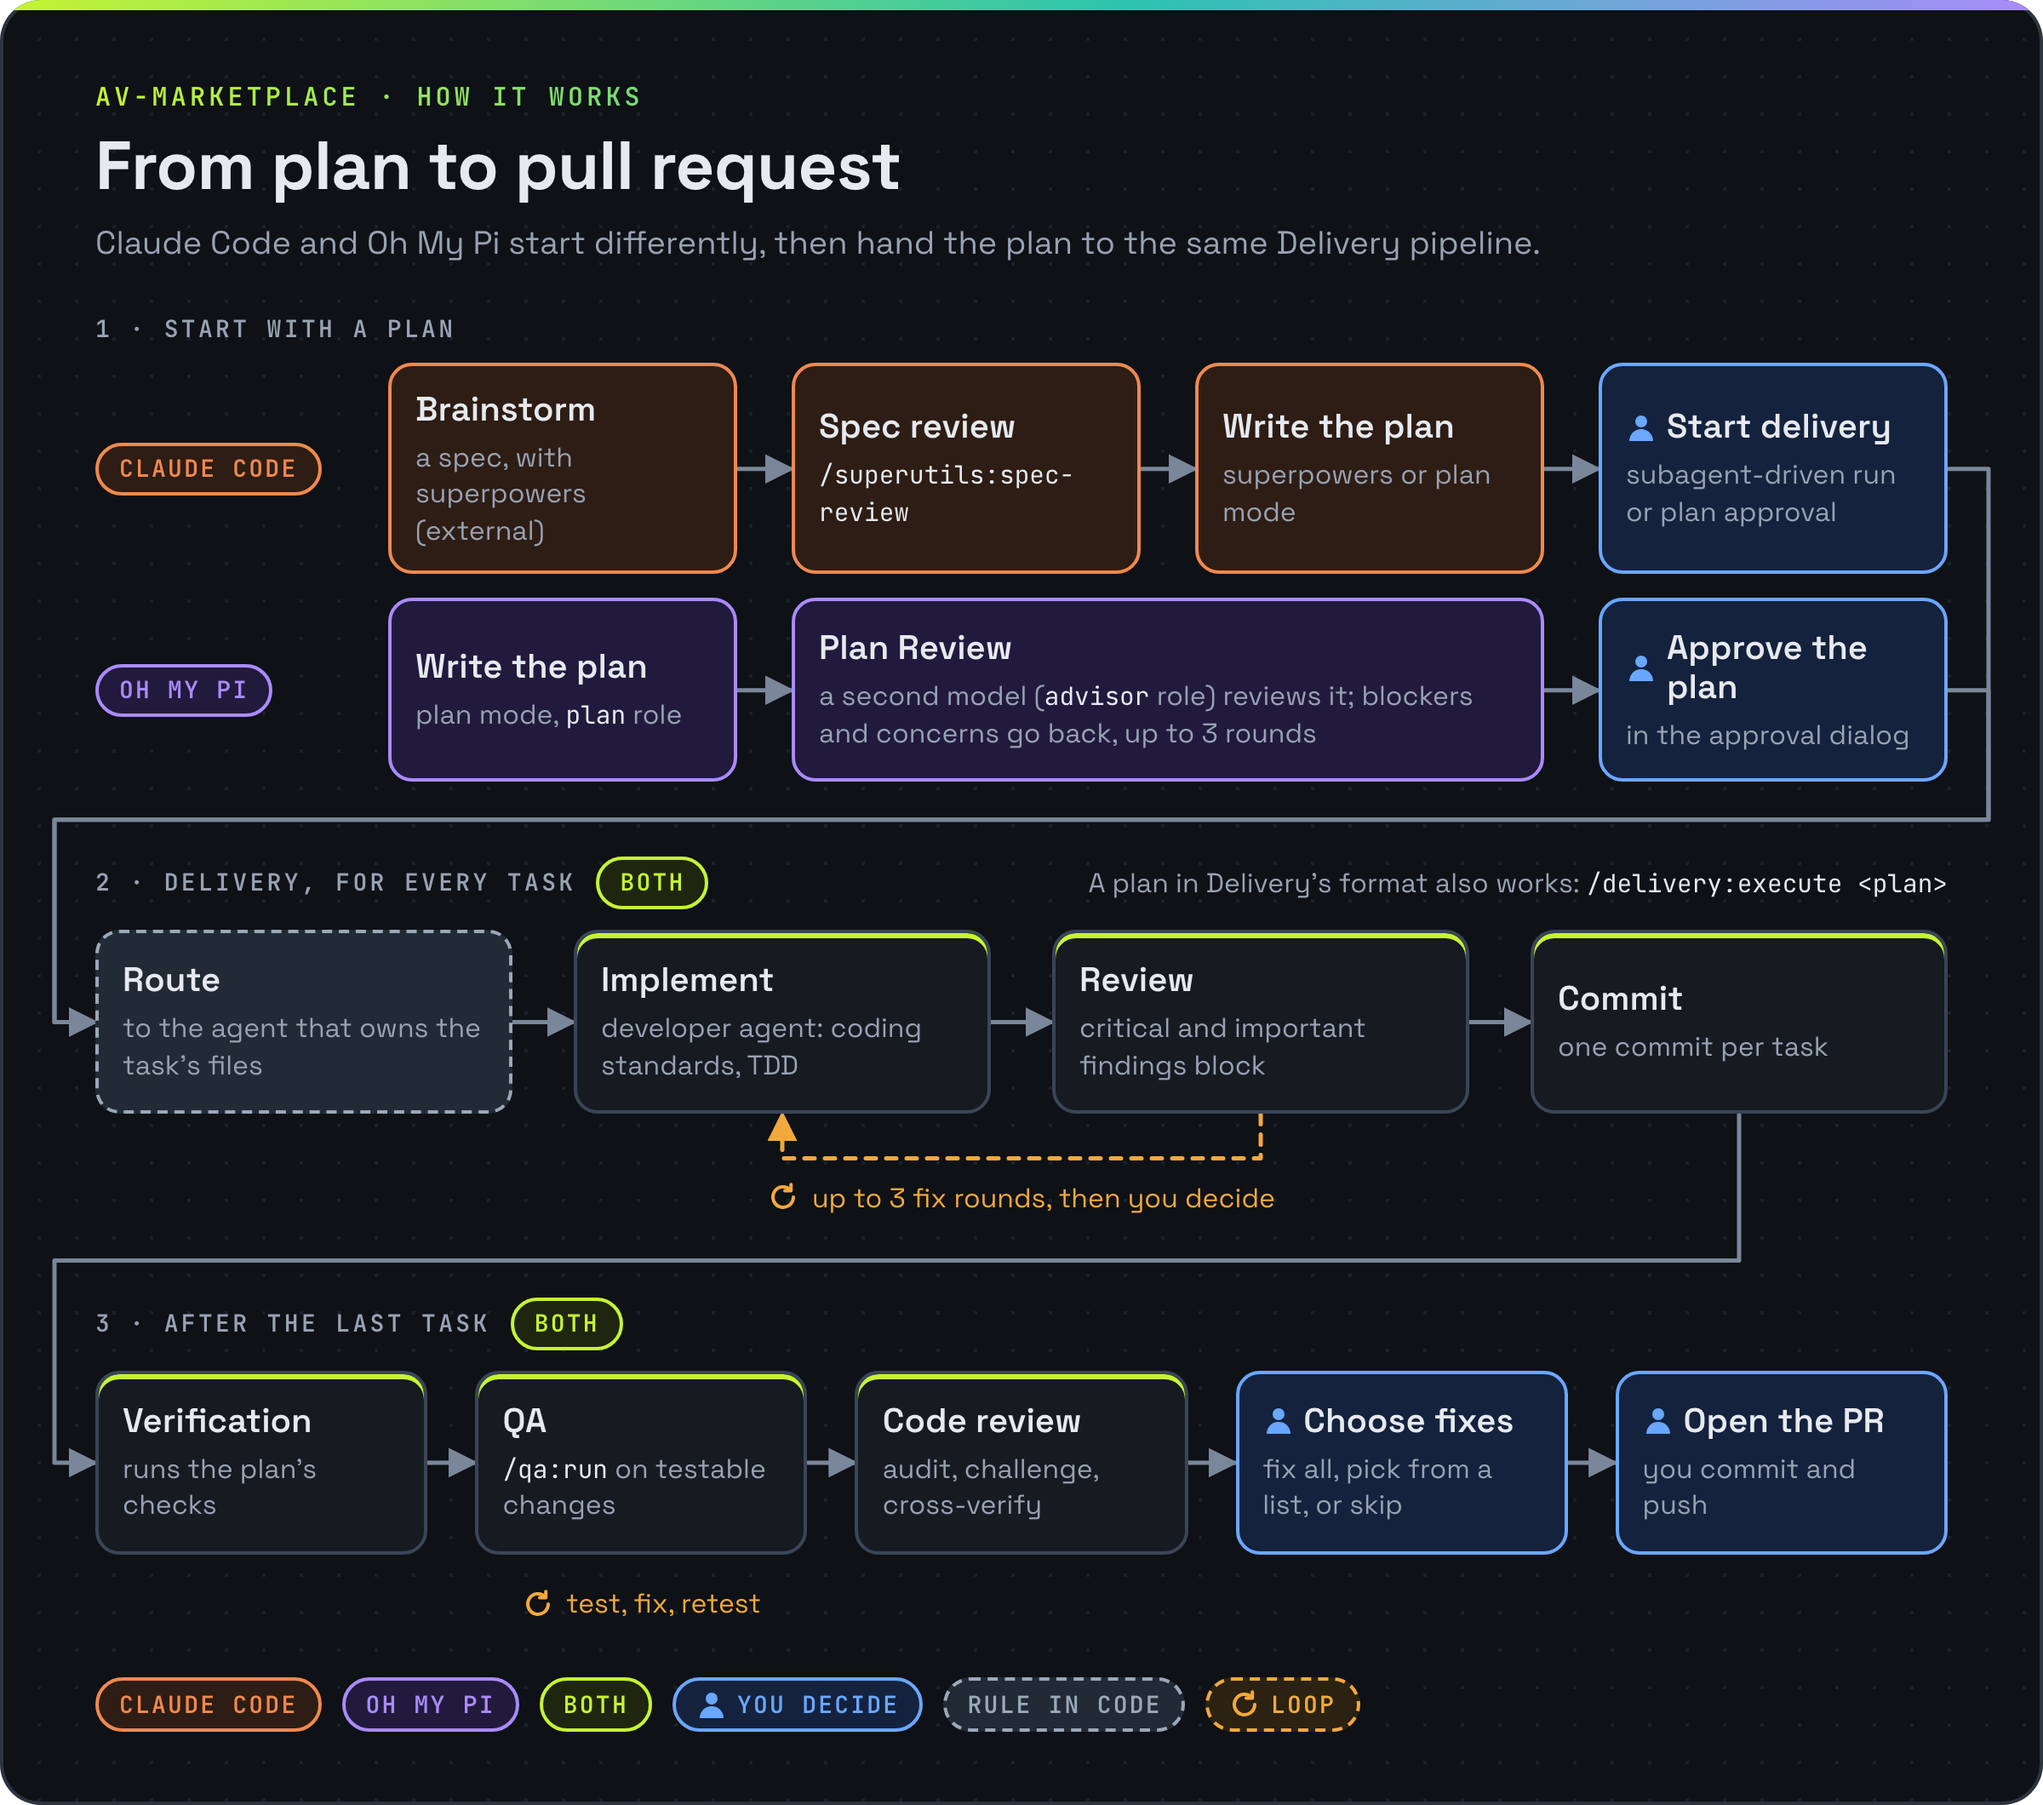
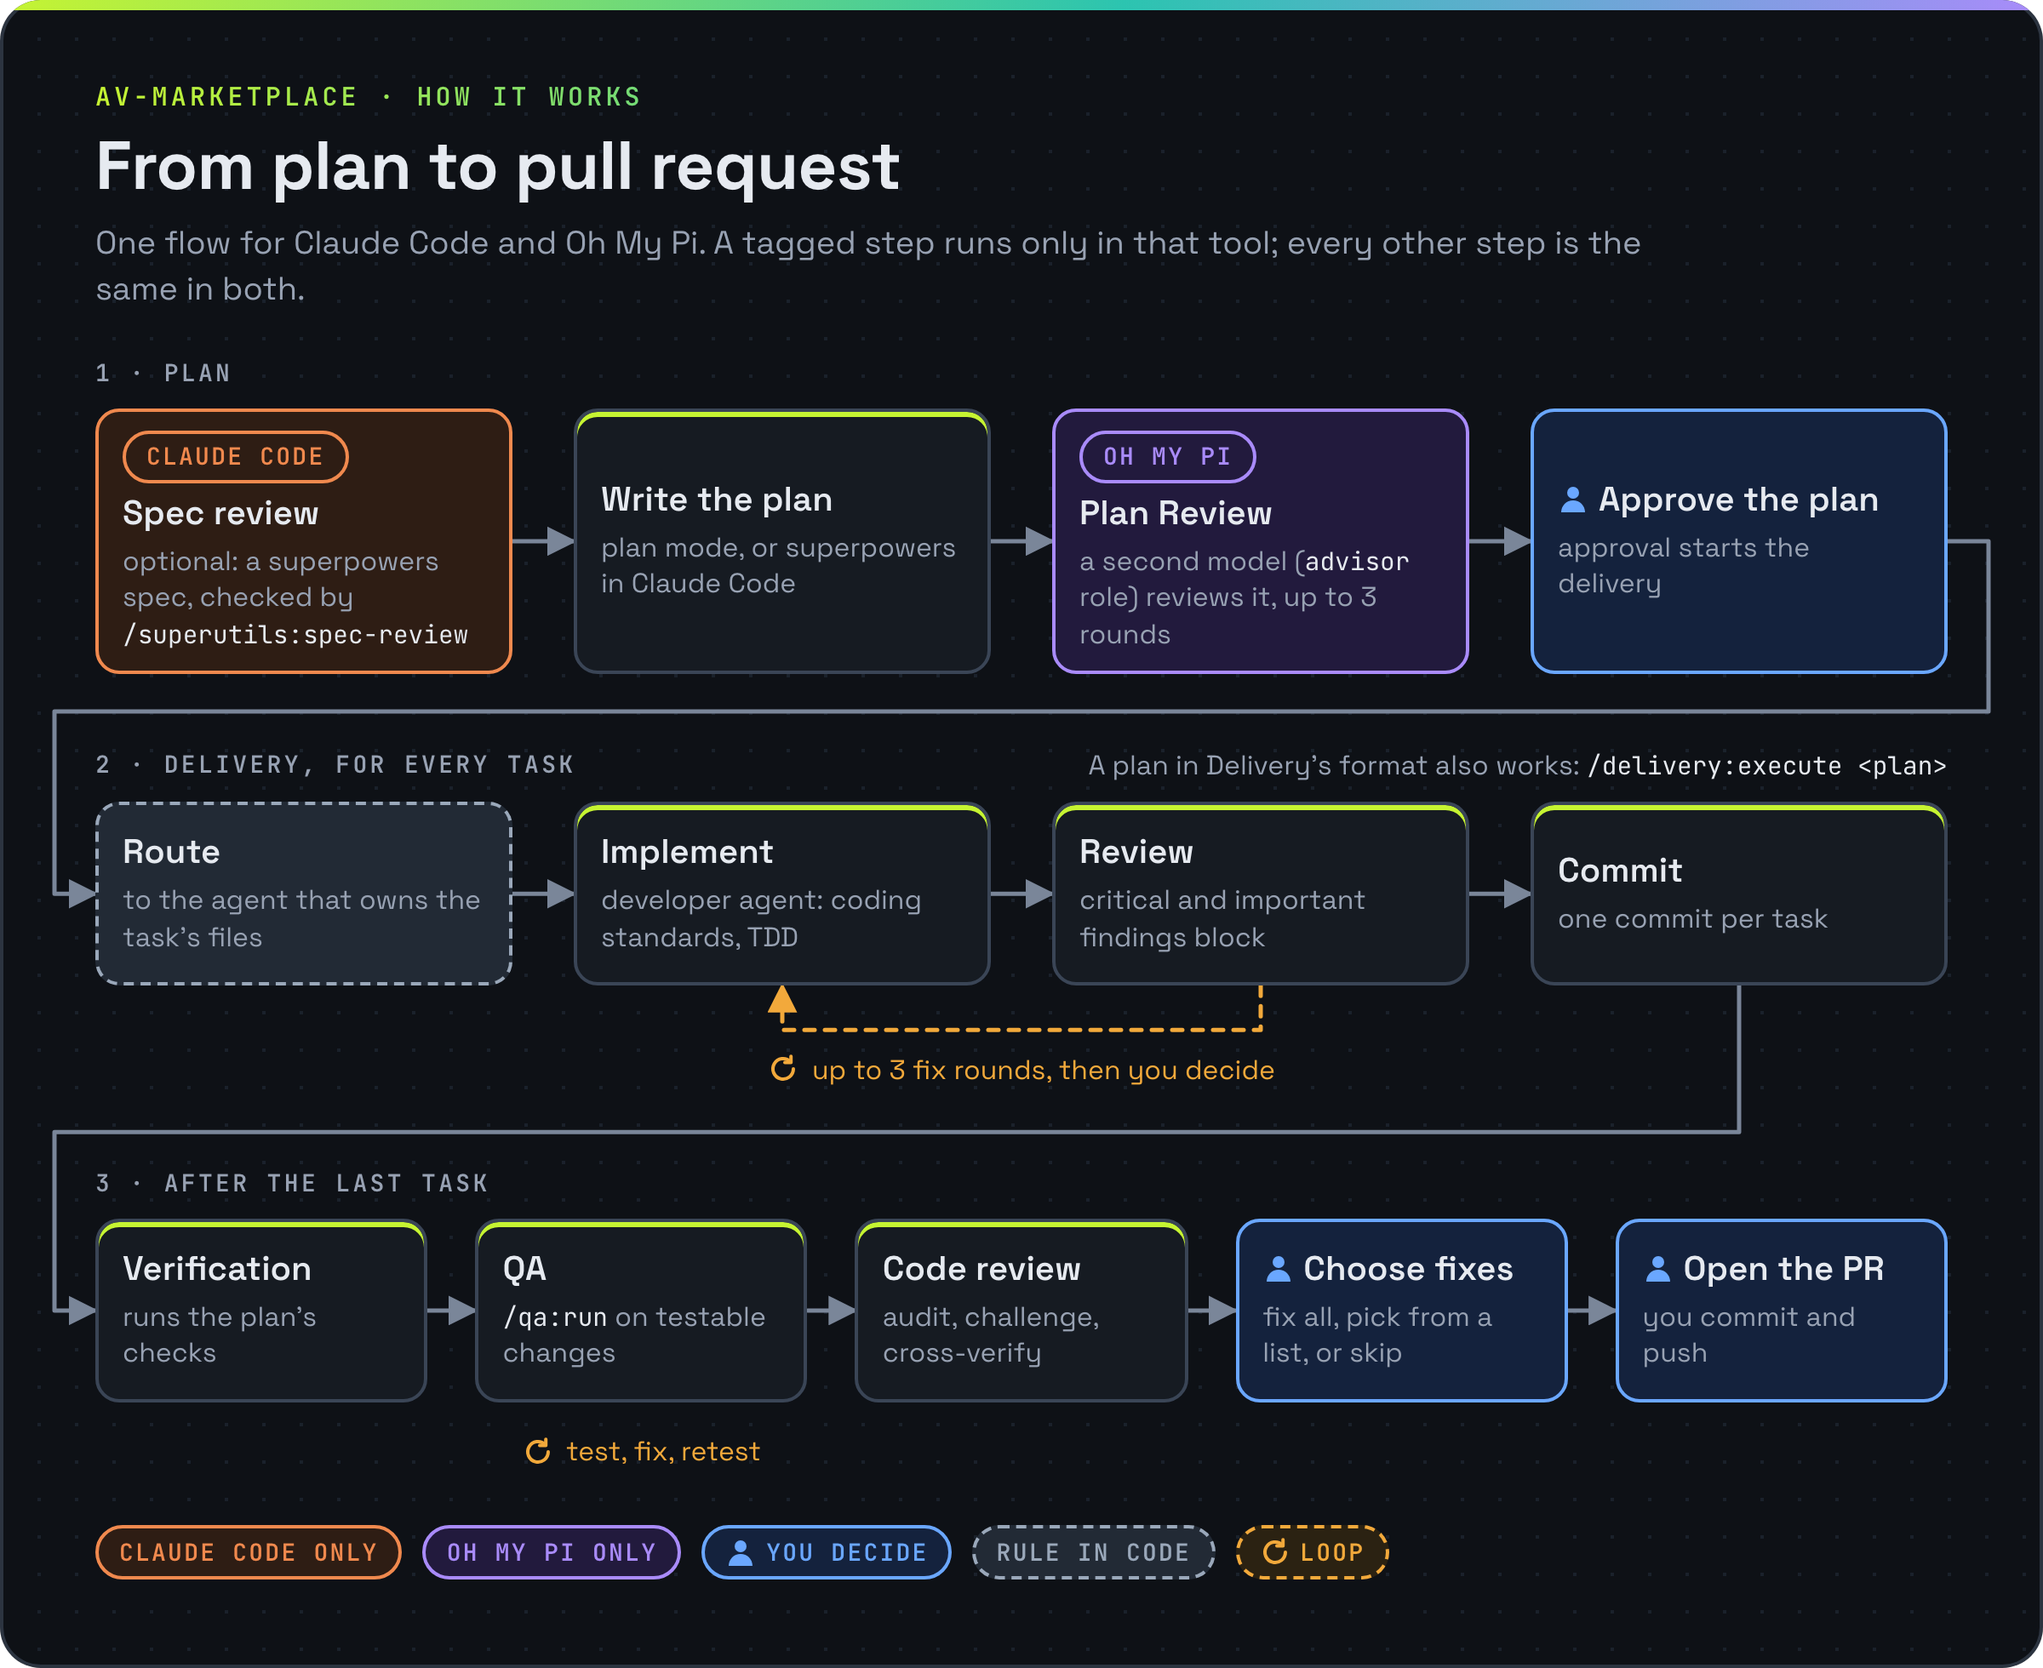
docs: show one plan-to-PR flow for Claude Code and Oh My Pi
Replace the two planning lanes of the flow diagram with one row: spec
review is tagged Claude Code only, Plan Review Oh My Pi only, and every
other step is shared, so the Both tags and the .chip.both style go away.
Update the image alt texts in README.md and docs/workflow.md.

Changed region(s): [[0.0312, 0.0311, 0.9688, 0.6847], [0.0312, 0.6847, 0.9688, 0.9648]]

diff --git a/docs/assets/src/harness-flow.html b/docs/assets/src/harness-flow.html
@@ -3,13 +3,12 @@
 <html lang="en">
 <head>
   <meta charset="utf-8">
-  <meta name="render-size" content="1200x1060">
+  <meta name="render-size" content="1200x980">
   <title>From plan to pull request</title>
   <link rel="stylesheet" href="theme.css">
   <style>
-    .lanes { display: grid; grid-template-columns: 140px repeat(4, 1fr); grid-template-rows: 124px 108px; column-gap: 32px; row-gap: 14px; }
-    .lanes > .chip { align-self: center; justify-self: start; }
-    #omp-2 { grid-column: span 2; }
+    .plan-row { display: grid; grid-template-columns: repeat(4, 1fr); grid-template-rows: 156px; column-gap: 36px; }
+    .box > .chip { align-self: flex-start; }
     .row4 { display: grid; grid-template-columns: repeat(4, 1fr); grid-template-rows: 108px 30px; column-gap: 36px; row-gap: 34px; }
     .row4 .loop-label { grid-column: 2 / span 2; }
     .row5 { display: grid; grid-template-columns: repeat(5, 1fr); grid-template-rows: 108px 30px; column-gap: 28px; row-gap: 14px; }
@@ -22,25 +21,20 @@
     <header>
       <p class="kicker">av-marketplace · how it works</p>
       <h1>From plan to pull request</h1>
-      <p class="sub">Claude Code and Oh My Pi start differently, then hand the plan to the same Delivery pipeline.</p>
+      <p class="sub">One flow for Claude Code and Oh My Pi. A tagged step runs only in that tool; every other step is the same in both.</p>
     </header>
     <section>
-      <p class="band-label">1 · Start with a plan</p>
-      <div class="lanes">
-        <span class="chip cc">Claude Code</span>
-        <div class="box cc" id="cc-1"><b>Brainstorm</b><small>a spec, with superpowers (external)</small></div>
-        <div class="box cc" id="cc-2"><b>Spec review</b><small><code>/superutils:<wbr>spec-review</code></small></div>
-        <div class="box cc" id="cc-3"><b>Write the plan</b><small>superpowers or plan mode</small></div>
-        <div class="box human" id="cc-4"><b><svg class="icon" viewBox="0 0 18 18" aria-hidden="true"><circle cx="9" cy="5.5" r="3.5" fill="currentColor"/><path d="M2 17c0-3.9 3.1-7 7-7s7 3.1 7 7z" fill="currentColor"/></svg>Start delivery</b><small>subagent-driven run or plan approval</small></div>
-        <span class="chip omp">Oh My Pi</span>
-        <div class="box omp" id="omp-1"><b>Write the plan</b><small>plan mode, <code>plan</code> role</small></div>
-        <div class="box omp" id="omp-2"><b>Plan Review</b><small>a second model (<code>advisor</code> role) reviews it; blockers and concerns go back, up to 3 rounds</small></div>
-        <div class="box human" id="omp-3"><b><svg class="icon" viewBox="0 0 18 18" aria-hidden="true"><circle cx="9" cy="5.5" r="3.5" fill="currentColor"/><path d="M2 17c0-3.9 3.1-7 7-7s7 3.1 7 7z" fill="currentColor"/></svg>Approve the plan</b><small>in the approval dialog</small></div>
+      <p class="band-label">1 · Plan</p>
+      <div class="plan-row">
+        <div class="box cc" id="p-spec"><span class="chip cc">Claude Code</span><b>Spec review</b><small>optional: a superpowers spec, checked by <code>/superutils:<wbr>spec-review</code></small></div>
+        <div class="box shared" id="p-plan"><b>Write the plan</b><small>plan mode, or superpowers in Claude Code</small></div>
+        <div class="box omp" id="p-review"><span class="chip omp">Oh My Pi</span><b>Plan Review</b><small>a second model (<code>advisor</code> role) reviews it, up to 3 rounds</small></div>
+        <div class="box human" id="p-approve"><b><svg class="icon" viewBox="0 0 18 18" aria-hidden="true"><circle cx="9" cy="5.5" r="3.5" fill="currentColor"/><path d="M2 17c0-3.9 3.1-7 7-7s7 3.1 7 7z" fill="currentColor"/></svg>Approve the plan</b><small>approval starts the delivery</small></div>
       </div>
     </section>
     <div class="gap" id="gap-1"></div>
     <section>
-      <p class="band-label">2 · Delivery, for every task <span class="chip both">Both</span><span class="band-note">A plan in Delivery's format also works: <code>/delivery:execute &lt;plan&gt;</code></span></p>
+      <p class="band-label">2 · Delivery, for every task<span class="band-note">A plan in Delivery's format also works: <code>/delivery:execute &lt;plan&gt;</code></span></p>
       <div class="row4">
         <div class="box rule" id="d-route"><b>Route</b><small>to the agent that owns the task's files</small></div>
         <div class="box shared" id="d-implement"><b>Implement</b><small>developer agent: coding standards, TDD</small></div>
@@ -51,7 +45,7 @@
     </section>
     <div class="gap" id="gap-2"></div>
     <section>
-      <p class="band-label">3 · After the last task <span class="chip both">Both</span></p>
+      <p class="band-label">3 · After the last task</p>
       <div class="row5">
         <div class="box shared" id="a-verify"><b>Verification</b><small>runs the plan's checks</small></div>
         <div class="box shared" id="a-qa"><b>QA</b><small><code>/qa:run</code> on testable changes</small></div>
@@ -62,9 +56,8 @@
       </div>
     </section>
     <footer class="legend">
-      <span class="chip cc">Claude Code</span>
-      <span class="chip omp">Oh My Pi</span>
-      <span class="chip both">Both</span>
+      <span class="chip cc">Claude Code only</span>
+      <span class="chip omp">Oh My Pi only</span>
       <span class="chip human"><svg class="icon" viewBox="0 0 18 18" aria-hidden="true"><circle cx="9" cy="5.5" r="3.5" fill="currentColor"/><path d="M2 17c0-3.9 3.1-7 7-7s7 3.1 7 7z" fill="currentColor"/></svg>You decide</span>
       <span class="chip rule">Rule in code</span>
       <span class="chip loop"><svg class="icon" viewBox="0 0 18 18" aria-hidden="true" fill="none" stroke="currentColor" stroke-width="2" stroke-linecap="round" stroke-linejoin="round"><path d="M15 9a6 6 0 1 1-1.8-4.3"/><path d="M13.6 1.6v3.6H10"/></svg>Loop</span>
@@ -73,13 +66,10 @@
   <script src="wires.js"></script>
   <script>
     drawWires([
-      { from: "cc-1", to: "cc-2" },
-      { from: "cc-2", to: "cc-3" },
-      { from: "cc-3", to: "cc-4" },
-      { from: "omp-1", to: "omp-2" },
-      { from: "omp-2", to: "omp-3" },
-      { from: "cc-4", to: "d-route", fromSide: "right", toSide: "left", via: "gap-1" },
-      { from: "omp-3", to: "d-route", fromSide: "right", toSide: "left", via: "gap-1" },
+      { from: "p-spec", to: "p-plan" },
+      { from: "p-plan", to: "p-review" },
+      { from: "p-review", to: "p-approve" },
+      { from: "p-approve", to: "d-route", fromSide: "right", toSide: "left", via: "gap-1" },
       { from: "d-route", to: "d-implement" },
       { from: "d-implement", to: "d-review" },
       { from: "d-review", to: "d-commit" },

diff --git a/docs/assets/src/theme.css b/docs/assets/src/theme.css
@@ -38,7 +38,6 @@ code { font-family: var(--mono); font-size: 0.92em; color: var(--fg); }
 .chip.cc, .chip.anth { border-color: var(--anthropic); background: var(--anthropic-bg); color: var(--anthropic); }
 .chip.omp { border-color: var(--omp); background: var(--omp-bg); color: var(--omp); }
 .chip.oai { border-color: var(--openai); background: var(--openai-bg); color: var(--openai); }
-.chip.both { border-color: var(--accent); background: var(--accent-bg); color: var(--accent); }
 .chip.human { border-color: var(--human); background: var(--human-bg); color: var(--human); }
 .chip.rule { border-style: dashed; border-color: var(--rule); background: var(--rule-bg); color: var(--rule); }
 .chip.loop { border-style: dashed; border-color: var(--warn); background: var(--warn-bg); color: var(--warn); }

diff --git a/README.md b/README.md
@@ -12,7 +12,7 @@ Plan, deliver, test, review and commit, with each stage handing its output to th
 
 </div>
 
-![From plan to pull request. Claude Code: brainstorm a spec with superpowers, review it with /superutils:spec-review, write the plan, then start delivery. Oh My Pi: write the plan in plan mode, Plan Review has a second model review it, then you approve it. Delivery, for every task: route it to the agent that owns its files, implement, review with up to 3 fix rounds, commit. After the last task: verification, QA and code review, then you choose which findings to fix and open the PR.](docs/assets/harness-flow.png)
+![From plan to pull request, one flow for both tools. Plan: in Claude Code, optionally review a superpowers spec with /superutils:spec-review; write the plan; in Oh My Pi, Plan Review has a second model review it; you approve the plan, which starts the delivery. Delivery, for every task: route it to the agent that owns its files, implement, review with up to 3 fix rounds, commit. After the last task: verification, QA and code review, then you choose which findings to fix and open the PR.](docs/assets/harness-flow.png)
 
 ## Why use it
 

diff --git a/docs/workflow.md b/docs/workflow.md
@@ -20,7 +20,7 @@ scanners and linters the plugins auto-detect.
 
 ## The cycle
 
-![From plan to pull request: Claude Code and Oh My Pi start differently, then share one Delivery pipeline of routing, implementation, task review and commits, followed by verification, QA, code review and the fixes you choose.](assets/harness-flow.png)
+![From plan to pull request: one flow for Claude Code and Oh My Pi, with spec review tagged Claude Code only and Plan Review tagged Oh My Pi only, then one Delivery pipeline of routing, implementation, task review and commits, followed by verification, QA, code review and the fixes you choose.](assets/harness-flow.png)
 
 The diagram covers both tools; the stages below follow Claude Code. The [Oh My Pi guide](oh-my-pi.md) describes what differs there: Plan Review, model roles and the decision model.
 
